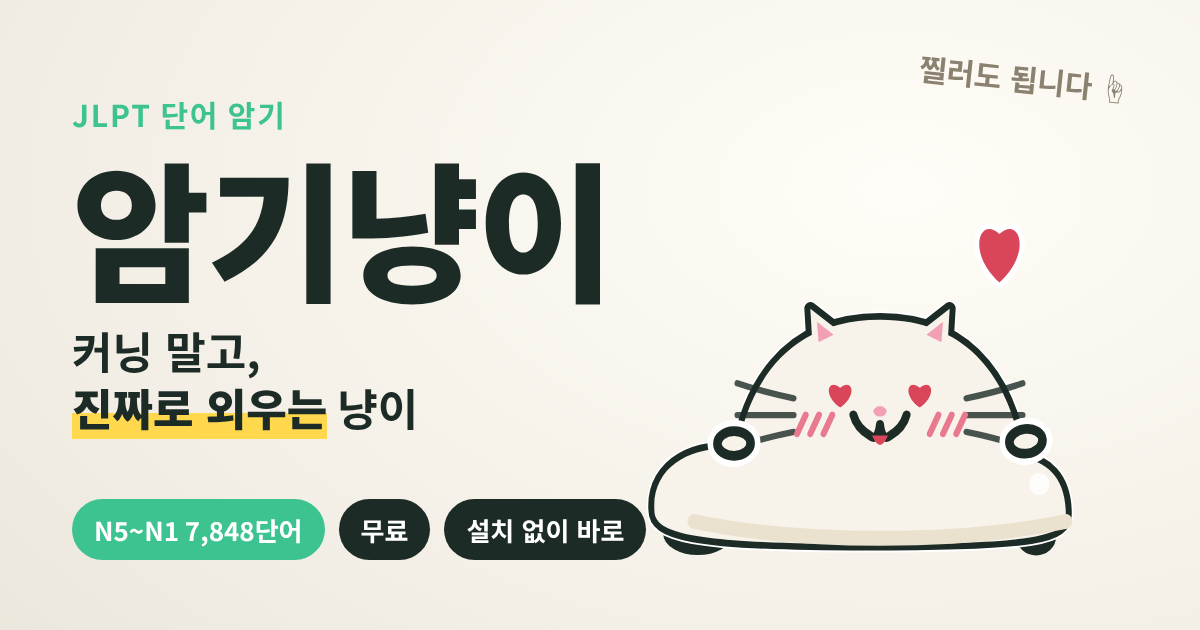
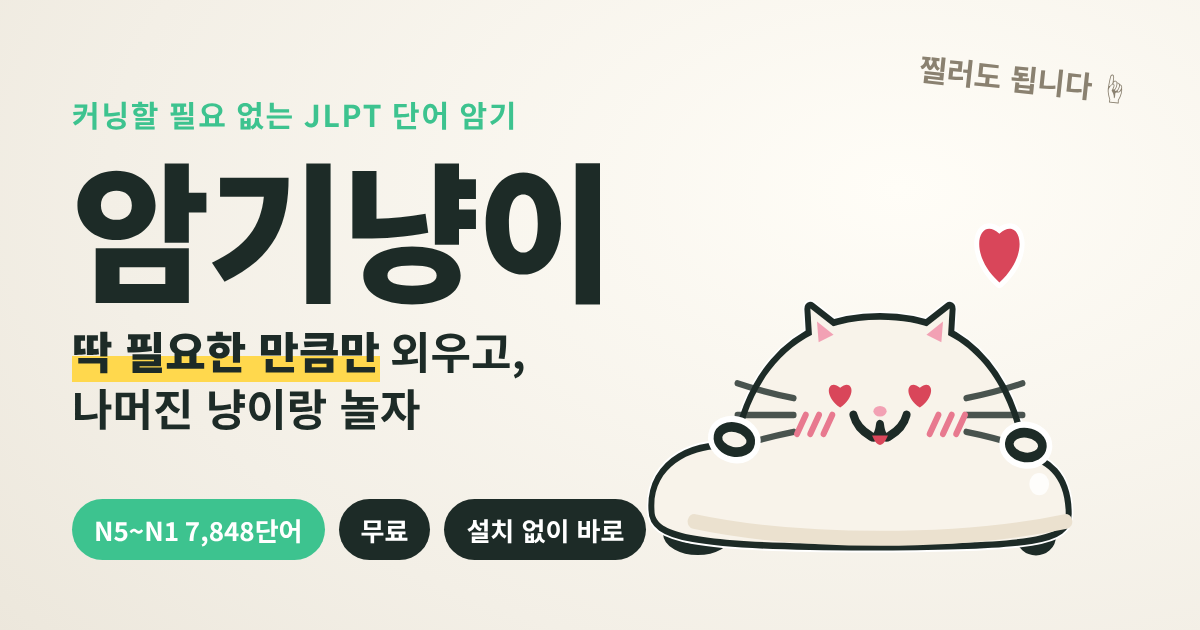
Melt meter: cat lines go from stern to melted to meow as study days add up (missed days cool it down); new tagline 'just the minimum'
Claude-Session: https://claude.ai/code/session_01Ld13u8bZv999yteSZFnEkY

diff --git a/sw.js b/sw.js
@@ -1,4 +1,4 @@
-const CACHE = "focus-vocab-v64";
+const CACHE = "focus-vocab-v65";
 const SHELL = ["./", "./index.html", "./manifest.webmanifest", "./icon.svg", "./icon-192.png", "./icon-512.png"];
 self.addEventListener("install", e => { e.waitUntil(caches.open(CACHE).then(c => c.addAll(SHELL)).then(() => self.skipWaiting())); });
 self.addEventListener("activate", e => { e.waitUntil(caches.keys().then(ks => Promise.all(ks.filter(k => k !== CACHE).map(k => caches.delete(k)))).then(() => self.clients.claim())); });
